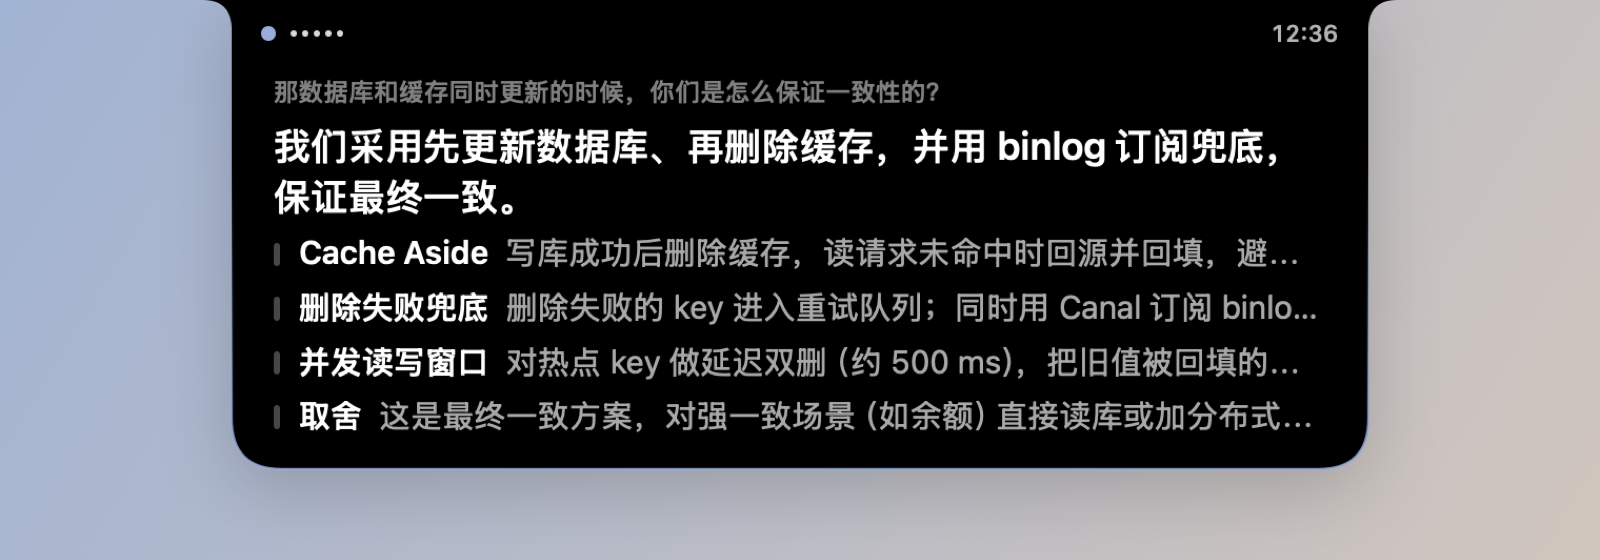
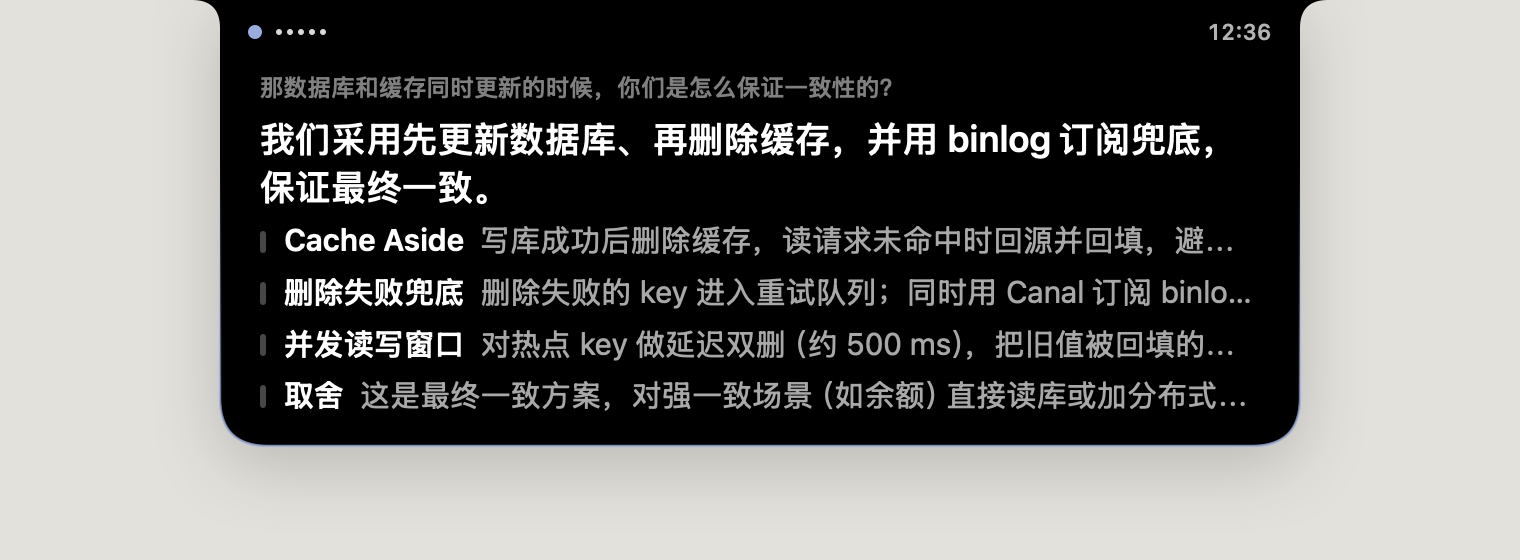
Show the island, the home page and both appearances at the top of the README
A composed hero image, an animation of the cue island (question heard, answer
streaming in, a closer look, withdrawing, the meeting deck) and one of the home
page changing scenes. The animations are the app's own frames: a scripted
recording mode for the demo (DemoFilm) draws each frame of the real views.

diff --git a/Sources/NextThought/DemoFilm.swift b/Sources/NextThought/DemoFilm.swift
@@ -1,0 +1,110 @@
+import AppKit
+import NextThoughtCore
+
+/// Frame-by-frame recordings of scripted demo scenes, for the README's animations.
+///
+/// Stage mode only (`scripts/dev/preview.sh walk`): `NEXTTHOUGHT_DEMO_FILM=island|home`
+/// plays a short script with demo data and writes every frame the app draws into
+/// `NEXTTHOUGHT_DEMO_FILM_DIR` as PNG files, then quits. The app renders its own
+/// windows, so no Screen Recording permission is involved.
+@MainActor
+enum DemoFilm {
+    private static var timer: Timer?
+    private static var started = Date()
+
+    static func begin(_ environment: [String: String]) {
+        guard let kind = environment["NEXTTHOUGHT_DEMO_FILM"], let folder = environment["NEXTTHOUGHT_DEMO_FILM_DIR"] else { return }
+        try? FileManager.default.createDirectory(atPath: folder, withIntermediateDirectories: true)
+        switch kind {
+        case "island": island(folder)
+        case "home": home(folder)
+        default: break
+        }
+    }
+
+    /// Runs `step` at `time` seconds into the film.
+    private static func at(_ time: Double, _ step: @escaping @MainActor () -> Void) {
+        DispatchQueue.main.asyncAfter(deadline: .now() + time) { MainActor.assumeIsolated { step() } }
+    }
+
+    private static var frames: [(rep: NSBitmapImageRep, time: Double)] = []
+
+    /// Draws the window into memory at 1x on every tick (encoding PNGs while recording
+    /// would halve the frame rate), then writes the frames and their times and quits.
+    private static func record(_ window: @escaping @MainActor () -> NSWindow?, to folder: String, fps: Double, seconds: Double) {
+        started = Date(); frames = []
+        let timer = Timer(timeInterval: 1 / fps, repeats: true) { _ in
+            MainActor.assumeIsolated {
+                let elapsed = Date().timeIntervalSince(started)
+                if let view = window()?.contentView?.superview ?? window()?.contentView {
+                    let size = view.bounds.size
+                    if let rep = NSBitmapImageRep(bitmapDataPlanes: nil, pixelsWide: Int(size.width), pixelsHigh: Int(size.height),
+                                                  bitsPerSample: 8, samplesPerPixel: 4, hasAlpha: true, isPlanar: false,
+                                                  colorSpaceName: .deviceRGB, bytesPerRow: 0, bitsPerPixel: 0) {
+                        rep.size = size
+                        view.cacheDisplay(in: view.bounds, to: rep)
+                        frames.append((rep, elapsed))
+                    }
+                }
+                guard elapsed >= seconds else { return }
+                self.timer?.invalidate()
+                for (index, frame) in frames.enumerated() {
+                    try? frame.rep.representation(using: .png, properties: [:])?
+                        .write(to: URL(fileURLWithPath: folder + String(format: "/f%04d.png", index)))
+                }
+                try? frames.map { String(format: "%.3f", $0.time) }.joined(separator: "\n")
+                    .write(toFile: folder + "/times.txt", atomically: true, encoding: .utf8)
+                try? "\(frames.count)".write(toFile: folder + "/done", atomically: true, encoding: .utf8)
+                exit(0)
+            }
+        }
+        RunLoop.main.add(timer, forMode: .common)
+        self.timer = timer
+    }
+
+    /// Listening, a question heard, the answer streaming in, a closer look, the deck.
+    private static func island(_ folder: String) {
+        let state = AppState.shared
+        let controller = CueIslandController.shared
+        let answer = state.displayedAnswer, question = state.displayedQuestion, candidate = state.liveCandidate
+        state.answer = ""; state.answerHistory = []; state.currentAnswerID = nil; state.historyCursor = nil
+        state.currentQuestion = ""; state.liveCandidate = nil
+        controller.model.backdrop = true
+        controller.model.demoHover = false
+        for window in NSApp.windows where !(window is NSPanel) { window.orderOut(nil) }
+        controller.show()
+        let panel = { NSApp.windows.first { $0.title == String(localized: "NextThought 提词岛") } }
+        record(panel, to: folder, fps: 20, seconds: 12.6)
+
+        at(1.0) { state.liveCandidate = candidate }
+        at(2.6) {
+            state.liveCandidate = nil
+            state.pendingQuestion = question; state.answerDraft = ""; state.isAnswering = true
+        }
+        // The answer arrives a few characters at a time, as it does from a model.
+        let characters = Array(answer)
+        let steps = 30
+        for step in 1...steps {
+            at(2.7 + Double(step) * 0.075) { state.answerDraft = String(characters.prefix(characters.count * step / steps)) }
+        }
+        at(5.2) {
+            state.isAnswering = false; state.answer = answer; state.currentQuestion = question
+            state.pendingQuestion = ""; state.answerDraft = ""
+        }
+        at(6.6) { controller.model.demoHover = true }
+        at(8.4) { controller.model.demoHover = false }
+        at(9.2) { controller.model.collapsedKey = CueIslandView.answerKey(state) }
+        at(10.0) { controller.model.pinned = true }
+        at(11.8) { controller.model.pinned = false }
+    }
+
+    /// The home page taking on one scene after another.
+    private static func home(_ folder: String) {
+        let state = AppState.shared
+        record({ NSApp.windows.first(where: MainWindowLayout.isMainWindow) }, to: folder, fps: 15, seconds: 7.6)
+        let scenes: [SessionMode] = [.labMeeting, .academic, .groupProject, .client, .lesson, .interview]
+        for (index, scene) in scenes.enumerated() {
+            at(1.0 + Double(index) * 1.05) { state.lastScene = scene }
+        }
+    }
+}

diff --git a/Sources/NextThought/CueIsland.swift b/Sources/NextThought/CueIsland.swift
@@ -107,6 +107,8 @@ final class CueIslandModel {
     var shareAvoiding = false
     /// Nothing is drawn: the pointer is tracked over the notch itself.
     @ObservationIgnored var isHidden = true
+    /// Recordings drive the hover state themselves instead of following the pointer.
+    @ObservationIgnored var demoHover: Bool?
     /// The deck stays open after a click on its bar, until the next click on the bar or outside.
     var pinned = false
     /// NextThought's own window is the key window on the island's display: the window already
@@ -311,6 +313,10 @@ final class CueIslandController {
 
     private func track() {
         guard let panel, panel.isVisible else { return }
+        if let forced = model.demoHover {
+            if model.hovering != forced { model.hovering = forced }
+            return
+        }
         let metrics = model.metrics
         // Drawing nothing, the island is the notch itself.
         let state = AppState.shared
@@ -515,7 +521,8 @@ struct CueIslandView: View {
         let phase = phase
         ZStack(alignment: .top) {
             if model.backdrop {
-                LinearGradient(colors: [Color(nsColor: .hex(0x9db4d6)), Color(nsColor: .hex(0xd9c7b8))], startPoint: .topLeading, endPoint: .bottomTrailing)
+                // A flat desk colour: recordings of it compress well and sit quietly on a page.
+                Color(nsColor: .hex(0xe4e1da))
             }
             if phase != .hidden {
                 island(phase)

diff --git a/Sources/NextThought/DemoMode.swift b/Sources/NextThought/DemoMode.swift
@@ -193,6 +193,7 @@ extension DemoMode {
         }
         RunLoop.main.add(timer, forMode: .common)
         stageTimer = timer
+        DemoFilm.begin(AppEnvironment.values)
         // NEXTTHOUGHT_DEMO_HITTEST=<file>: which view takes a click in the title row.
         if let path = AppEnvironment.values["NEXTTHOUGHT_DEMO_HITTEST"] {
             DispatchQueue.main.asyncAfter(deadline: .now() + 2) {
@@ -246,7 +247,8 @@ extension DemoMode {
         let state = AppState.shared
         DispatchQueue.main.asyncAfter(deadline: .now() + 1) {
             let island = CueIslandController.shared
-            island.model.backdrop = true
+            // NEXTTHOUGHT_DEMO_ISLAND_CLEAR=1 leaves the background transparent, for compositing.
+            island.model.backdrop = environment["NEXTTHOUGHT_DEMO_ISLAND_CLEAR"] != "1"
             let phase = environment["NEXTTHOUGHT_DEMO_ISLAND_PHASE"] ?? "cue"
             if phase != "cue" {
                 state.answer = ""; state.answerHistory = []; state.currentAnswerID = nil; state.historyCursor = nil

diff --git a/README.md b/README.md
@@ -16,7 +16,7 @@
 
 </div>
 
-![首页：给会议起个名字，选一个场景，开始](docs/screenshots/v3/home.png)
+![NextThought：提词岛在屏幕顶部，下面是浅色和深色的首页](docs/screenshots/v3/hero.png)
 
 ## 它做什么
 
@@ -27,7 +27,9 @@
 
 ## 提词岛
 
-![提词岛：从刘海向下展开的参考回答](docs/screenshots/v3/island-cue.png)
+<p align="center"><img src="docs/screenshots/v3/island.gif" width="760" alt="提词岛：听到问题、回答逐字出现、停上去展开全文、收回刘海、会议面板"></p>
+
+上面是应用自己逐帧渲染的真实过程：听到问题 → 回答逐字出现 → 鼠标停上去展开全文 → 说完收回刘海 → 再停上去是会议面板。
 
 回答从 MacBook 的刘海向下展开，紧贴摄像头。默认只露结论和每一点的开头，一眼看完；鼠标停上去才显示全文。它不抢键盘焦点，平时点击会穿过它。
 
@@ -39,6 +41,16 @@
 **临场教练**会在提词岛旁轻声提醒：语速太快、说得太久、发言占比失衡；也可以用摄像头留意眼神有没有离开镜头（只在本机分析特征点，不保存、不上传）。
 
 **屏幕共享**：提词岛只待在摄像头所在的屏幕上。共享某个窗口或另一块屏幕时，它不在画面里；共享它所在的整块屏幕时，macOS 15.4 起系统不再允许应用把自己排除在外，所以它会在识别到 Zoom、Teams、腾讯会议、飞书、钉钉或 Webex 的整屏共享后自动收回刘海。
+
+## 首页
+
+<p align="center"><img src="docs/screenshots/v3/home.gif" width="820" alt="首页：切换场景时，说明和页面的颜色跟着变"></p>
+
+给会议起个名字，选一个场景，开始。输入“字节二面”“数据库大作业”这样的标题，场景会自己选好；每个场景有自己的颜色，页面跟着它变。
+
+| 浅色 | 深色 |
+| --- | --- |
+| ![首页，浅色](docs/screenshots/v3/home.png) | ![首页，深色](docs/screenshots/v3/home-dark.png) |
 
 ## 九个场景
 
